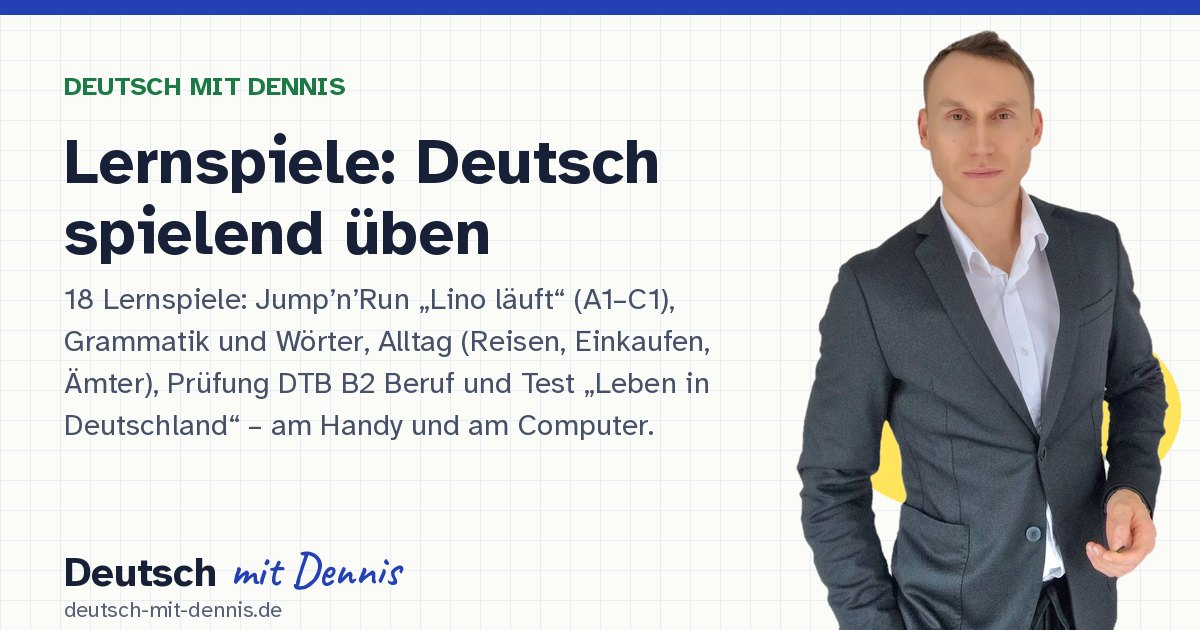
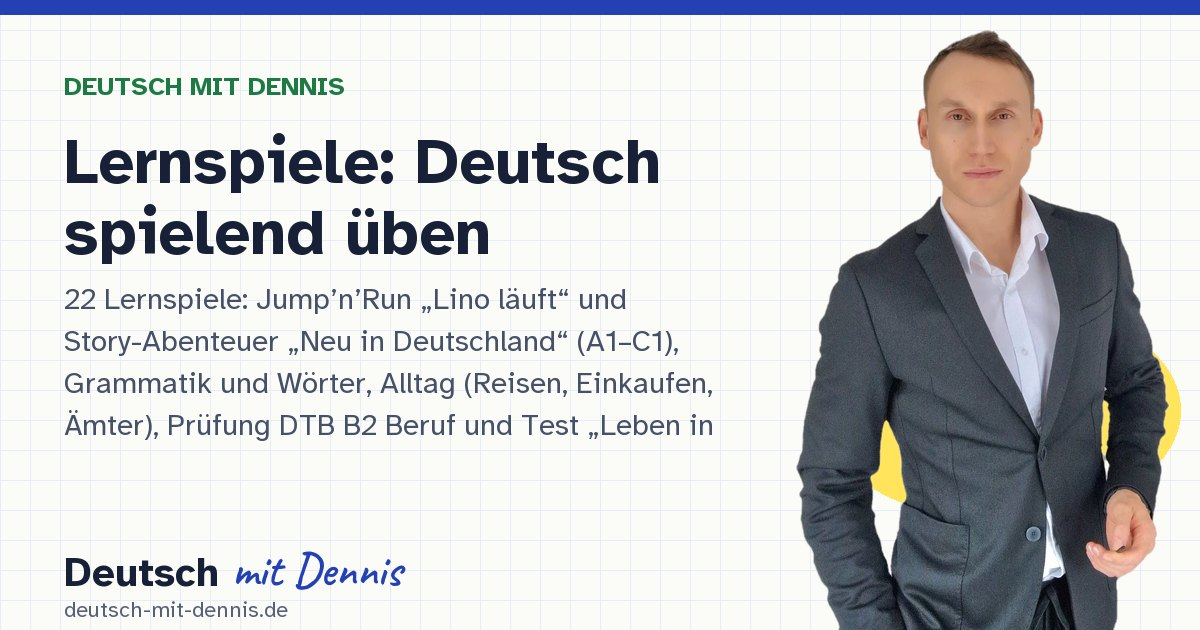
Site review: correct game count, keep video play badge off thumbnail titles, tuck help button while scrolling on phones

diff --git a/site.js b/site.js
@@ -243,7 +243,7 @@
       </div>
     </section>
 
-    ${window.DMChallenge ? `<section class="dm-section ch-home" aria-label="Tages-Challenge und Lernspiele">${DMChallenge.teaser()}<a class="sp-home" href="#spiele"><span aria-hidden="true">🎮</span><span><b>Lernspiele</b><small>18 Spiele: Jump’n’Run · Artikel · Verben · Alltag · DTB B2 · Leben in Deutschland</small></span><span class="sp-home-go">Spielen →</span></a></section>` : ''}
+    ${window.DMChallenge ? `<section class="dm-section ch-home" aria-label="Tages-Challenge und Lernspiele">${DMChallenge.teaser()}<a class="sp-home" href="#spiele"><span aria-hidden="true">🎮</span><span><b>Lernspiele</b><small>22 Spiele: Jump’n’Run · Story-Abenteuer · Artikel · Verben · Alltag · DTB B2 · Leben in Deutschland</small></span><span class="sp-home-go">Spielen →</span></a></section>` : ''}
 
     <section class="dm-section lino-home" aria-labelledby="lino-h">
       <a class="lino-home-card" href="#spiele/lino">
@@ -431,7 +431,7 @@
         <section class="dm-card dm-hub-card"><h2>✍ Schreiben</h2><p>Plane deinen Text, schreib ihn und vergleiche mit einem Muster. Dein Entwurf bleibt auf deinem Gerät gespeichert.</p>${levelLinks('ueben/schreiben')}<a class="dm-inline-link" href="#schreiben/bausteine">Schreib-Bausteine: Anrede, Gruß, Verbindungswörter</a></section>
         <section class="dm-card dm-hub-card"><h2>🎧 Hören</h2><p>Hörtraining für DTZ und DTB B2 mit natürlichen Stimmen – plus kurze Texte zum Einstieg.</p><div class="dm-pills"><a href="#hoeren/dtz-1"><b>DTZ</b><small>5 Übungssätze</small></a><a href="#hoeren/b2-1"><b>DTB B2</b><small>4 Übungssätze</small></a><a href="#hoeren"><b>Alle</b><small>Übersicht</small></a></div></section>
         <section class="dm-card dm-hub-card"><h2>📖 Lesen</h2><p>Mitteilungen, Anzeigen, E-Mails und Artikel verstehen – mit Fragen und Erklärungen.</p><div class="dm-pills"><a href="#lesen/alltag"><b>Alltag</b><small>A2–B1 · DTZ</small></a><a href="#lesen/beruf"><b>Beruf</b><small>B1–B2 · DTB</small></a></div></section>
-        <section class="dm-card dm-hub-card"><h2>🎮 Lernspiele</h2><p>18 Spiele, neu: das Jump’n’Run „Lino läuft“ von A1 bis C1. Dazu Grammatik, Alltag, DTB B2 Beruf und „Leben in Deutschland“.</p><a class="dm-btn dm-btn-quiet" href="#spiele">Zu den Lernspielen</a></section>
+        <section class="dm-card dm-hub-card"><h2>🎮 Lernspiele</h2><p>22 Spiele, neu: das Story-Abenteuer „Neu in Deutschland“ in 8 Kapiteln und das Jump’n’Run „Lino läuft“ – beide von A1 bis C1. Dazu Grammatik, Alltag, DTB B2 Beruf und „Leben in Deutschland“.</p><a class="dm-btn dm-btn-quiet" href="#spiele">Zu den Lernspielen</a></section>
         <section class="dm-card dm-hub-card"><h2>🖼 Bild beschreiben</h2><p>Adjektivendungen und Relativsätze an Bildern üben – wie im DTZ, Teil Sprechen 2.</p><a class="dm-btn dm-btn-quiet" href="#bild">Zum Bild-Trainer</a></section>
         <section class="dm-card dm-hub-card"><h2>🎲 Gemeinsam spielen</h2><p>Kahoot-Quiz für den Kurs oder zu Hause. Wörter und Redemittel festigen.</p><a class="dm-btn dm-btn-quiet" href="#kahoot">Zu den Kahoot-Quiz</a></section>
       </div>`);

diff --git a/spiele/index.html b/spiele/index.html
@@ -1,13 +1,13 @@
 <!DOCTYPE html>
 <html lang="de"><head><meta charset="utf-8"><meta name="viewport" content="width=device-width,initial-scale=1">
 <title>Lernspiele: Deutsch spielend üben – Deutsch mit Dennis</title>
-<meta name="description" content="18 Lernspiele: Jump’n’Run „Lino läuft“ (A1–C1), Grammatik und Wörter, Alltag (Reisen, Einkaufen, Ämter), Prüfung DTB B2 Beruf und Test „Leben in Deutschland“ – am Handy und am Computer.">
+<meta name="description" content="22 Lernspiele: Jump’n’Run „Lino läuft“ und Story-Abenteuer „Neu in Deutschland“ (A1–C1), Grammatik und Wörter, Alltag (Reisen, Einkaufen, Ämter), Prüfung DTB B2 Beruf und Test „Leben in Deutschland“ – am Handy und am Computer.">
 <link rel="canonical" href="https://deutsch-mit-dennis.de/spiele/">
 <meta property="og:type" content="website"><meta property="og:site_name" content="Deutsch mit Dennis"><meta property="og:locale" content="de_DE">
-<meta property="og:title" content="Lernspiele: Deutsch spielend üben"><meta property="og:description" content="18 Lernspiele: Jump’n’Run „Lino läuft“ (A1–C1), Grammatik und Wörter, Alltag (Reisen, Einkaufen, Ämter), Prüfung DTB B2 Beruf und Test „Leben in Deutschland“ – am Handy und am Computer."><meta property="og:url" content="https://deutsch-mit-dennis.de/spiele/">
+<meta property="og:title" content="Lernspiele: Deutsch spielend üben"><meta property="og:description" content="22 Lernspiele: Jump’n’Run „Lino läuft“ und Story-Abenteuer „Neu in Deutschland“ (A1–C1), Grammatik und Wörter, Alltag (Reisen, Einkaufen, Ämter), Prüfung DTB B2 Beruf und Test „Leben in Deutschland“ – am Handy und am Computer."><meta property="og:url" content="https://deutsch-mit-dennis.de/spiele/">
 <meta property="og:image" content="https://deutsch-mit-dennis.de/assets/og/spiele.jpg"><meta property="og:image:width" content="1200"><meta property="og:image:height" content="630">
 <meta name="twitter:card" content="summary_large_image">
 <link rel="icon" href="/favicon.svg">
 <script>location.replace("/#spiele");</script>
 <style>body{font:18px/1.6 system-ui,sans-serif;max-width:640px;margin:60px auto;padding:0 20px;color:#172036}a{color:#2341B5}</style>
-</head><body><h1>Lernspiele: Deutsch spielend üben</h1><p>18 Lernspiele: Jump’n’Run „Lino läuft“ (A1–C1), Grammatik und Wörter, Alltag (Reisen, Einkaufen, Ämter), Prüfung DTB B2 Beruf und Test „Leben in Deutschland“ – am Handy und am Computer.</p><p><a href="/#spiele">Weiter zu „Lernspiele: Deutsch spielend üben“</a></p></body></html>
+</head><body><h1>Lernspiele: Deutsch spielend üben</h1><p>22 Lernspiele: Jump’n’Run „Lino läuft“ und Story-Abenteuer „Neu in Deutschland“ (A1–C1), Grammatik und Wörter, Alltag (Reisen, Einkaufen, Ämter), Prüfung DTB B2 Beruf und Test „Leben in Deutschland“ – am Handy und am Computer.</p><p><a href="/#spiele">Weiter zu „Lernspiele: Deutsch spielend üben“</a></p></body></html>

diff --git a/extras.css b/extras.css
@@ -51,7 +51,7 @@ main a.back{display:none!important}
 .dm-cat-pruefung .dm-vthumb.is-empty .dm-vthumb-ph{background:linear-gradient(135deg,#B86E00,#E8A800 60%,#FFD66B)}
 .dm-vthumb.is-empty .dm-vthumb-ph b{display:block;font-size:clamp(15px,1.6vw,19px);line-height:1.25;max-width:24ch;text-shadow:0 1px 2px rgba(0,0,0,.25)}
 .dm-vthumb.is-empty .dm-vthumb-ph::after{display:none}
-.dm-vplay{position:absolute;left:50%;top:50%;width:56px;height:56px;margin:-28px 0 0 -28px;border-radius:50%;display:grid;place-items:center;background:rgba(23,32,54,.72);color:#fff;font-size:20px;padding-left:4px;box-sizing:border-box;transition:transform .2s,background .2s;pointer-events:none}
+.dm-vplay{position:absolute;right:10px;top:50%;width:46px;height:46px;margin:-23px 0 0;border-radius:50%;display:grid;place-items:center;background:rgba(23,32,54,.72);color:#fff;font-size:20px;padding-left:4px;box-sizing:border-box;transition:transform .2s,background .2s;pointer-events:none}
 .dm-vthumb.is-empty .dm-vplay{top:auto;bottom:12px;left:auto;right:12px;margin:0;width:40px;height:40px;font-size:15px}
 .dm-vcard .dm-vthumb img{transition:transform .5s ease}
 .dm-vcard:hover .dm-vthumb img{transform:scale(1.05)}
@@ -768,7 +768,7 @@ header.dm-header nav{margin-left:auto}
 @media (max-width:1180px){#main-navigation a[data-nav="pruefung"]::after{position:static;display:inline-block;margin-left:8px;vertical-align:middle}}
 /* Einheitlichkeit 21.10.: Nummer in LiD-Karten mit Abstand, Hilfe-Knopf am Handy kleiner und weiter am Rand */
 .lid-card .lid-number{margin:0 10px 6px 0;vertical-align:middle}
-@media (max-width:600px){#site-helper{right:10px!important;bottom:10px!important}#site-helper .help-launch{width:46px!important;height:46px!important;min-width:46px!important;min-height:46px!important;padding:0!important;opacity:.94}}
+@media (max-width:600px){#site-helper{right:10px!important;bottom:10px!important;transition:transform .25s,opacity .25s}#site-helper.is-tucked{transform:translateY(80px);opacity:0;pointer-events:none}#site-helper .help-launch{width:46px!important;height:46px!important;min-width:46px!important;min-height:46px!important;padding:0!important;opacity:.94}}
 /* Startseite am Handy: „Direkt üben“ als kompakte Kacheln (2 Spalten, ohne Beschreibung) */
 @media (max-width:520px){
   .dm-home .dm-toolgrid{grid-template-columns:1fr 1fr;gap:10px;border-top:0}

diff --git a/index.html b/index.html
@@ -43,7 +43,7 @@
 <link rel="stylesheet" href="support.css?v=20261008e">
 <link rel="stylesheet" href="learner-paths.css?v=20261008e">
 <link rel="stylesheet" href="site.css?v=20261027b">
-<link rel="stylesheet" href="extras.css?v=20261027h">
+<link rel="stylesheet" href="extras.css?v=20261101a">
 <link rel="stylesheet" href="sim.css?v=20261029b">
 <link rel="stylesheet" href="lesewurm.css?v=20261028b">
 <script defer src="content.js?v=20261008e"></script>
@@ -61,7 +61,7 @@
 <script defer src="vocab.js?v=20261008e"></script>
 <script defer src="help-data.js?v=20261008e"></script>
 <script defer src="help-learning.js?v=20261008e"></script>
-<script defer src="help.js?v=20261008e"></script>
+<script defer src="help.js?v=20261101a"></script>
 <script defer src="platform-data.js?v=20261008e"></script>
 <script defer src="lid-materials.js?v=20261015a"></script>
 <script defer src="platform.js?v=20261008e"></script>
@@ -102,7 +102,7 @@
 <script defer src="witz.js?v=20261015c"></script>
 <script defer src="mitschrift.js?v=20261027c"></script>
 <script defer src="simulation.js?v=20261029c"></script>
-<script defer src="site.js?v=20261029a"></script>
+<script defer src="site.js?v=20261101a"></script>
 <script defer src="share.js?v=20261025b"></script>
 <script defer src="rating.js?v=20261008e"></script>
 <script defer src="tour.js?v=20261026a"></script>

diff --git a/help.js b/help.js
@@ -31,4 +31,6 @@
  function setOpen(value){opened=value;root.querySelector('#help-panel').hidden=!value;const launcher=root.querySelector('#help-launch');launcher.setAttribute('aria-expanded',String(value));if(value){renderChat();root.querySelector('#help-input').focus();}else launcher.focus();}
  const launcher=node('button','Hilfe / Help','help-launch');launcher.type='button';launcher.id='help-launch';launcher.setAttribute('aria-controls','help-panel');launcher.setAttribute('aria-expanded','false');launcher.onclick=()=>setOpen(!opened);const panel=node('section');panel.id='help-panel';panel.hidden=true;panel.setAttribute('role','dialog');panel.setAttribute('aria-label','Website-Hilfe / Website help');panel.addEventListener('keydown',e=>{if(e.key==='Escape'){e.preventDefault();setOpen(false);}});root.append(panel,launcher);
  document.querySelectorAll('[data-open-help]').forEach(b=>b.onclick=()=>setOpen(true));
+ // phones: tuck the launcher away while scrolling down so it does not cover content; scrolling up brings it back
+ let lastY=scrollY;addEventListener('scroll',()=>{const y=scrollY;if(Math.abs(y-lastY)<6)return;root.classList.toggle('is-tucked',y>lastY&&y>200&&!opened&&innerWidth<=600);lastY=y;},{passive:true});
 })();

diff --git a/tools/make-share-pages.py b/tools/make-share-pages.py
@@ -83,7 +83,7 @@ SECTIONS = [
     ('ueben', 'Deutsch üben', 'Sprechen und Schreiben mit Sofort-Korrektur, Satzanfängen und Mustertexten. Kostenlos.'),
     ('hoeren', 'Hörtraining DTZ und B2', 'Ansagen, Mailbox-Nachrichten und Gespräche mit Aufgaben wie in der Prüfung.'),
     ('lesen', 'Leseverstehen DTZ und B2', 'Mitteilungen, Anzeigen, E-Mails und Artikel verstehen – mit Fragen und Erklärungen. Jede Woche ein neuer Text.'),
-    ('spiele', 'Lernspiele: Deutsch spielend üben', '18 Lernspiele: Jump’n’Run „Lino läuft“ (A1–C1), Grammatik und Wörter, Alltag (Reisen, Einkaufen, Ämter), Prüfung DTB B2 Beruf und Test „Leben in Deutschland“ – am Handy und am Computer.'),
+    ('spiele', 'Lernspiele: Deutsch spielend üben', '22 Lernspiele: Jump’n’Run „Lino läuft“ und Story-Abenteuer „Neu in Deutschland“ (A1–C1), Grammatik und Wörter, Alltag (Reisen, Einkaufen, Ämter), Prüfung DTB B2 Beruf und Test „Leben in Deutschland“ – am Handy und am Computer.'),
     ('bild', 'Bild beschreiben – DTZ-Trainer', 'Adjektivendungen und Relativsätze an vier Bildern üben – mit Musterbeschreibung zum Anhören und Arbeitsblättern.'),
     ('challenge', 'Tages-Challenge: 10 Aufgaben, jeden Tag neu', 'Artikel, Verben, Satzbau, Wortschatz und „Leben in Deutschland“ – 3 Minuten am Tag. Wie lang wird deine Lernserie?'),
     ('lid', 'Leben in Deutschland: alle 310 Fragen', 'Kostenloser Trainer für den Test „Leben in Deutschland“ – mit Lernmodus und Prüfungssimulation.'),
